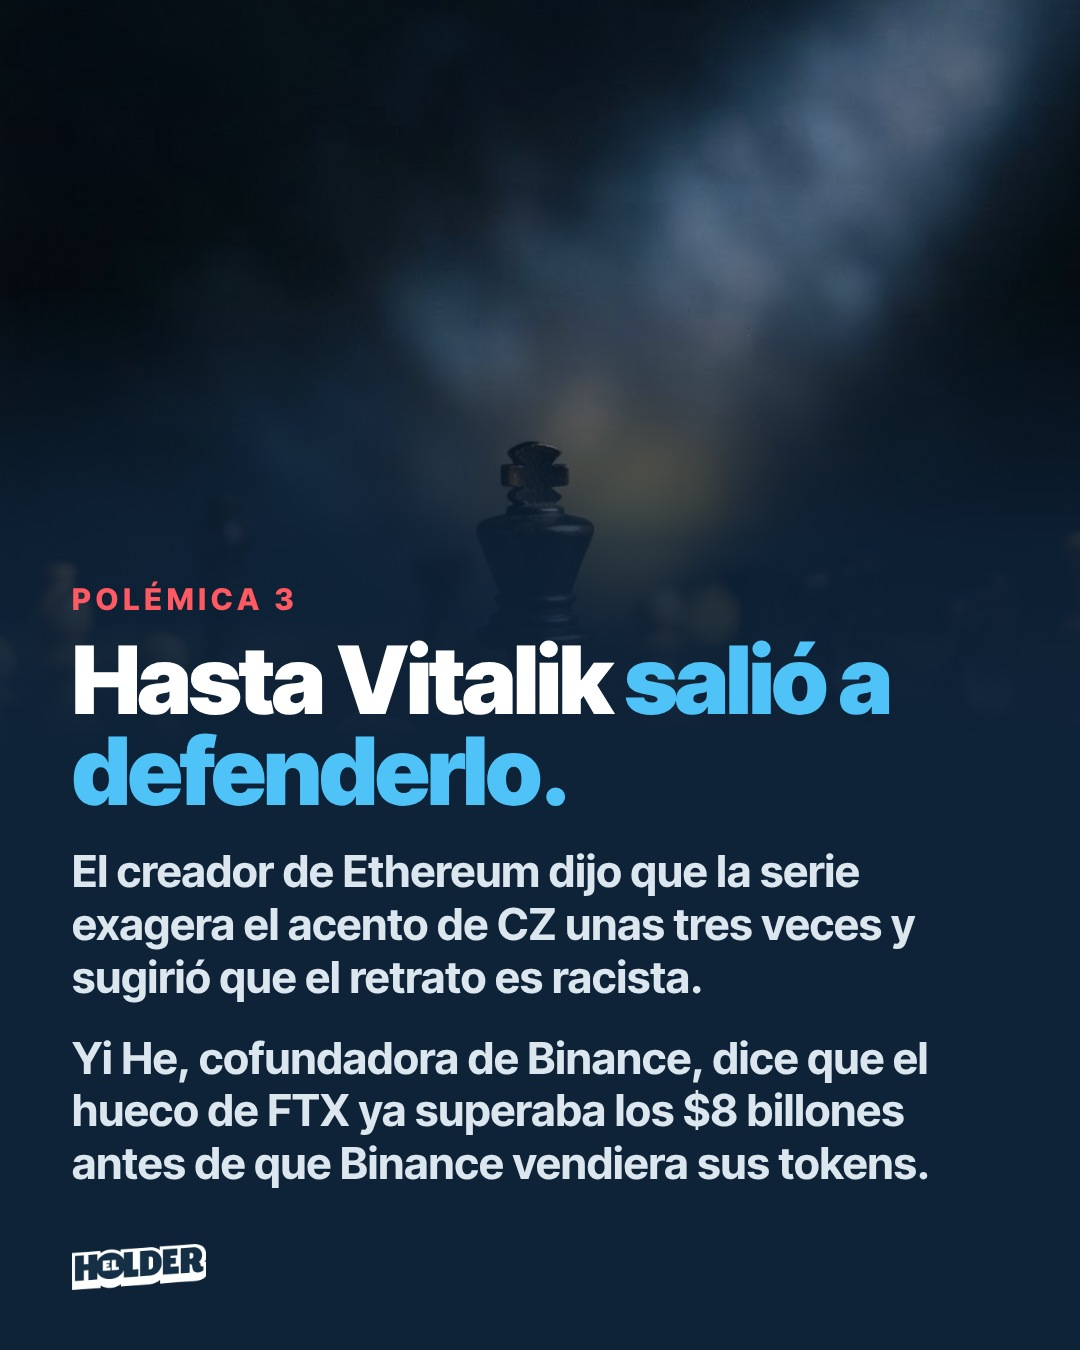
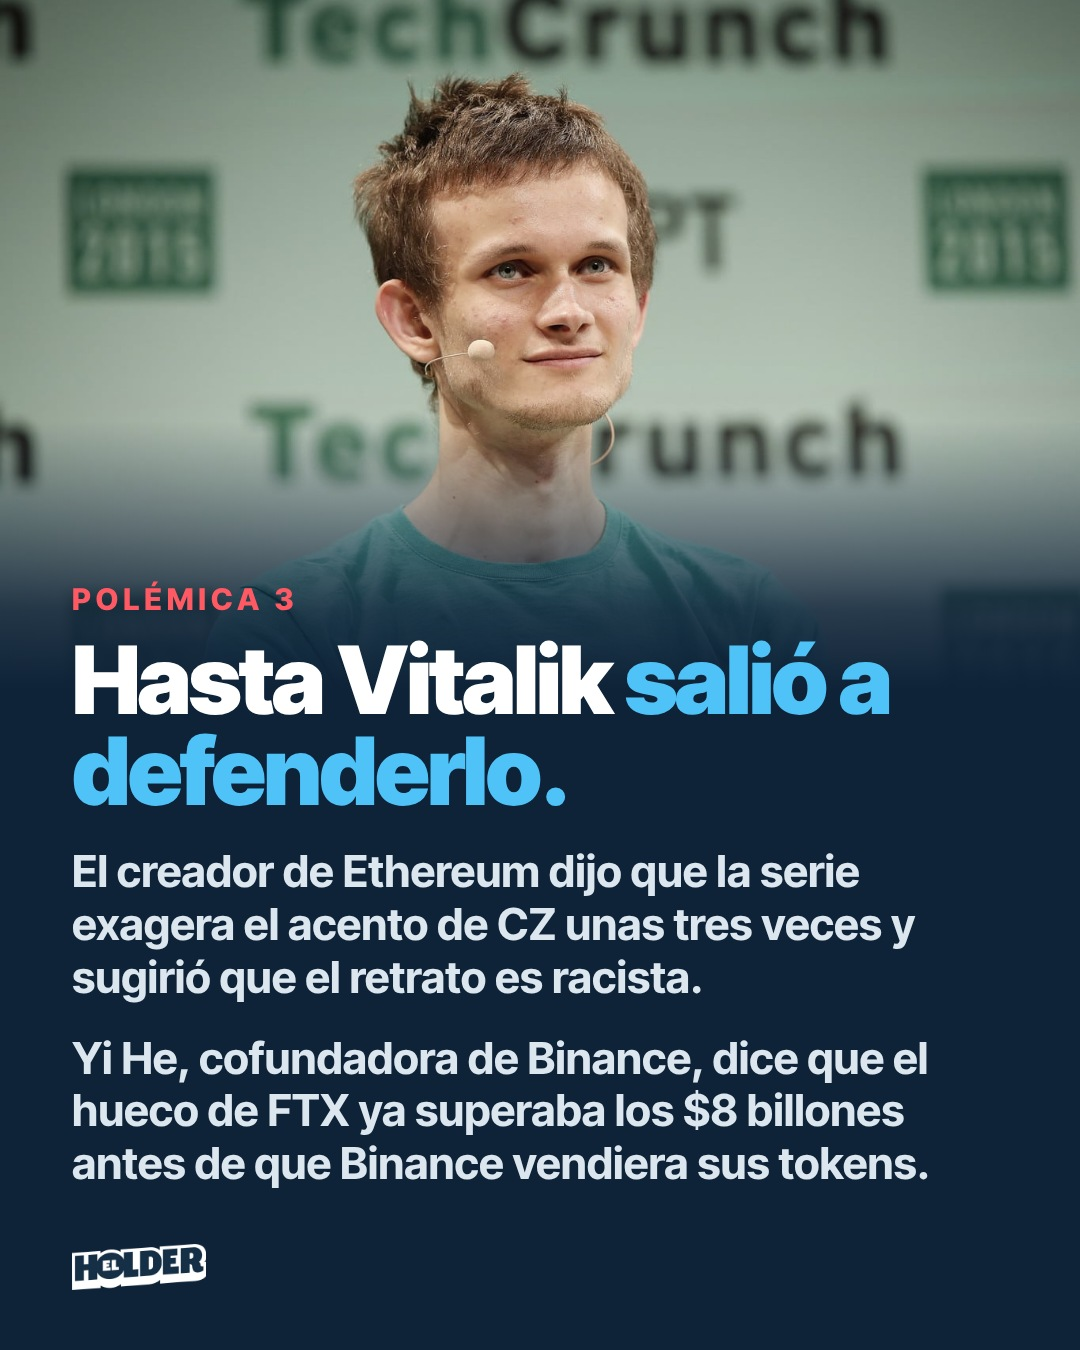
Carrusel Los Altruistas: fotos de CZ, Vitalik y tuit de SBF
Claude-Session: https://claude.ai/code/session_011HtJt2a4sBpoKNENnst7wy

diff --git a/carruseles/2026-11-23-los-altruistas/src/slide.html b/carruseles/2026-11-23-los-altruistas/src/slide.html
@@ -28,8 +28,9 @@ p b{color:#fff;font-weight:900}
 #pie{position:absolute;left:72px;bottom:56px;height:50px}#pie img{height:46px}
 #s1 h1{font-size:118px}
 #s1 .ov{background:linear-gradient(180deg,rgba(14,34,56,.15) 0%,rgba(14,34,56,.05) 22%,rgba(14,34,56,.85) 46%,#0E2238 62%)}
-#s5 .bg{transform:scaleX(-1)}
+
 #s8 .cue{background:#4FC3F7}
+.tw{position:absolute;left:50%;top:40px;height:615px;transform:translateX(-50%) rotate(-2deg);border-radius:26px;box-shadow:0 24px 60px rgba(0,0,0,.6);border:2px solid rgba(255,255,255,.15)}
 </style></head><body>
 
 <div class="s" id="s1"><div class="bg" data-box="1" style="background-image:url(poster.png);background-size:165%;background-position:92% 8%"></div><div class="ov"></div>
@@ -45,12 +46,12 @@ p b{color:#fff;font-weight:900}
  <div class="t"><div class="k">Polémica 1</div><h1>Un fraude de $8 billones contado como <span class="a">historia de amor.</span></h1>
  <div class="q r"><b>"Una historia de amor. Qué vergüenza."</b><span>Constance Wang, ex directora de operaciones de FTX. Dice que casi nadie en la empresa sabía que eran pareja hasta después de la quiebra.</span></div></div></div>
 
-<div class="s" id="s4"><div class="bg" style="background-image:url(chess.jpg)"></div><div class="ov"></div>
+<div class="s" id="s4"><div class="bg" data-box="1" style="background-image:url(cz.png);background-position:50% 18%"></div><div class="ov"></div>
  <div class="t"><div class="k">Polémica 2</div><h1>CZ, el <span class="a">villano</span> de la historia.</h1>
  <p>En una escena, CZ le propone a SBF aprovecharse de las órdenes de sus clientes. No hay evidencia pública de que eso haya pasado.</p>
  <div class="q"><b>"Complete BS."</b><span>CZ, fundador de Binance, en X (20 de noviembre)</span></div></div></div>
 
-<div class="s" id="s5"><div class="bg" style="background-image:url(chess.jpg)"></div><div class="ov"></div>
+<div class="s" id="s5"><div class="bg" data-box="1" style="background-image:url(vitalik.png);background-position:50% 25%"></div><div class="ov"></div>
  <div class="t"><div class="k">Polémica 3</div><h1>Hasta Vitalik <span class="a">salió a defenderlo.</span></h1>
  <p>El creador de Ethereum dijo que la serie exagera el acento de CZ unas tres veces y sugirió que el retrato es racista.</p>
  <p>Yi He, cofundadora de Binance, dice que el hueco de FTX ya superaba los $8 billones antes de que Binance vendiera sus tokens.</p></div></div>
@@ -60,9 +61,9 @@ p b{color:#fff;font-weight:900}
  <p>Según la crítica, la serie pinta a SBF como un enamorado pasivo y a Caroline como la que mueve el fraude. En la vida real:</p>
  <div class="row"><div class="c r"><em>SBF</em><b>25 años</b><span>De cárcel, culpable de 7 cargos</span></div><div class="c"><em>Caroline Ellison</em><b>2 años</b><span>Se declaró culpable y testificó contra él</span></div></div></div></div>
 
-<div class="s" id="s7"><div class="bg" style="background-image:url(prison.jpg)"></div><div class="ov"></div>
+<div class="s" id="s7"><div class="bg" style="background-image:url(prison.jpg);filter:brightness(.55)"></div><div class="ov"></div><img class="tw" src="tweet.png">
  <div class="t"><div class="k">Desde prisión</div><h1>Y SBF… <span class="a">se lo tomó con humor.</span></h1>
- <div class="q"><b>"Este tipo quiere interpretarme en la temporada 2, ¿qué opinan?"</b><span>Publicado en su cuenta de X el 21 de noviembre, a través de un intermediario</span></div></div></div>
+ <div class="q"><b>"Este tipo quiere interpretarme en la temporada 2, ¿qué opinan?"</b><span>Su cuenta de X, 21 de noviembre (la opera un intermediario)</span></div></div></div>
 
 <div class="s" id="s8"><div class="bg" data-box="1" style="background-image:url(ambos.png);background-position:50% 20%"></div><div class="ov"></div>
  <div class="t"><div class="k">El veredicto</div><h1>¿Serie o <span class="a">lavado de imagen?</span></h1>
